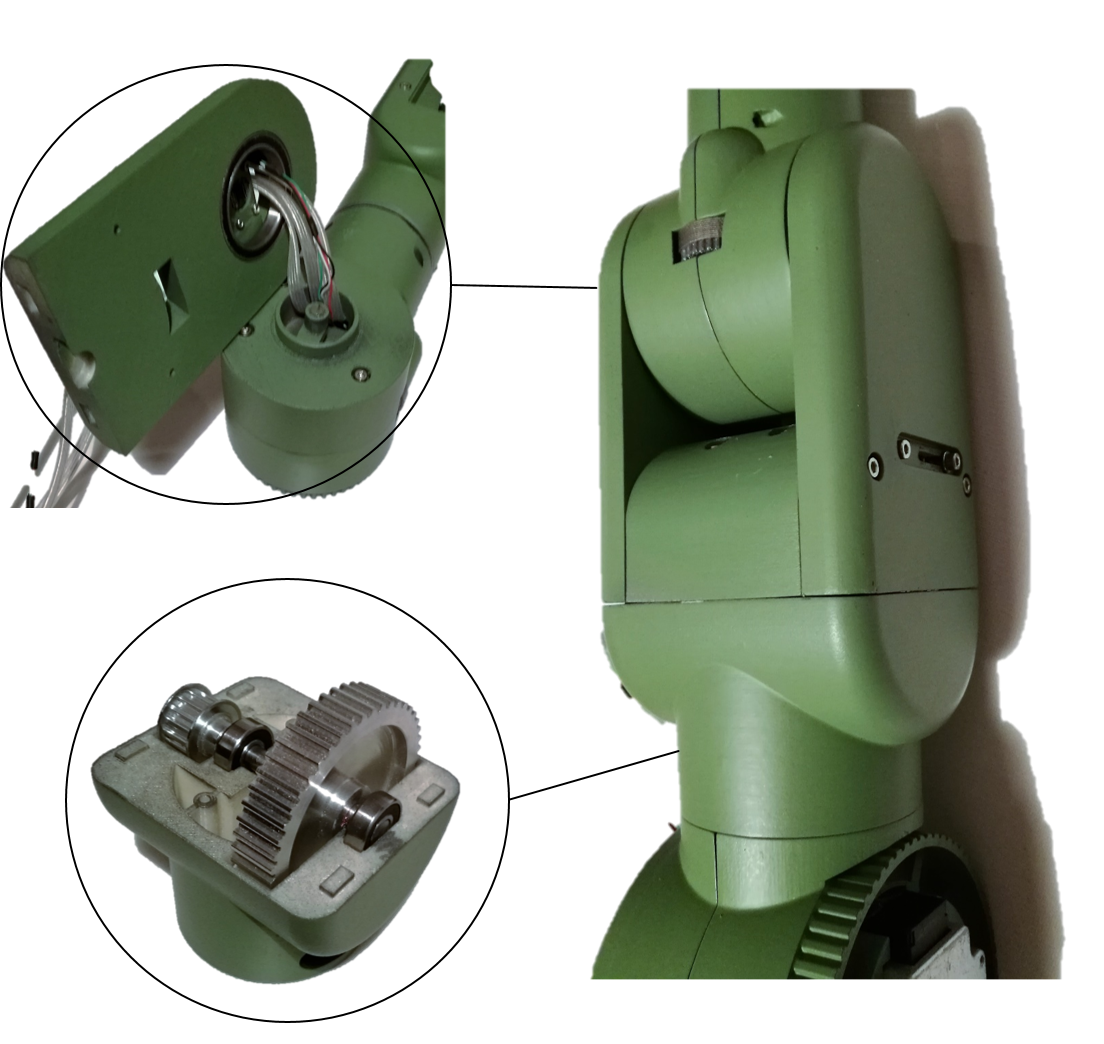
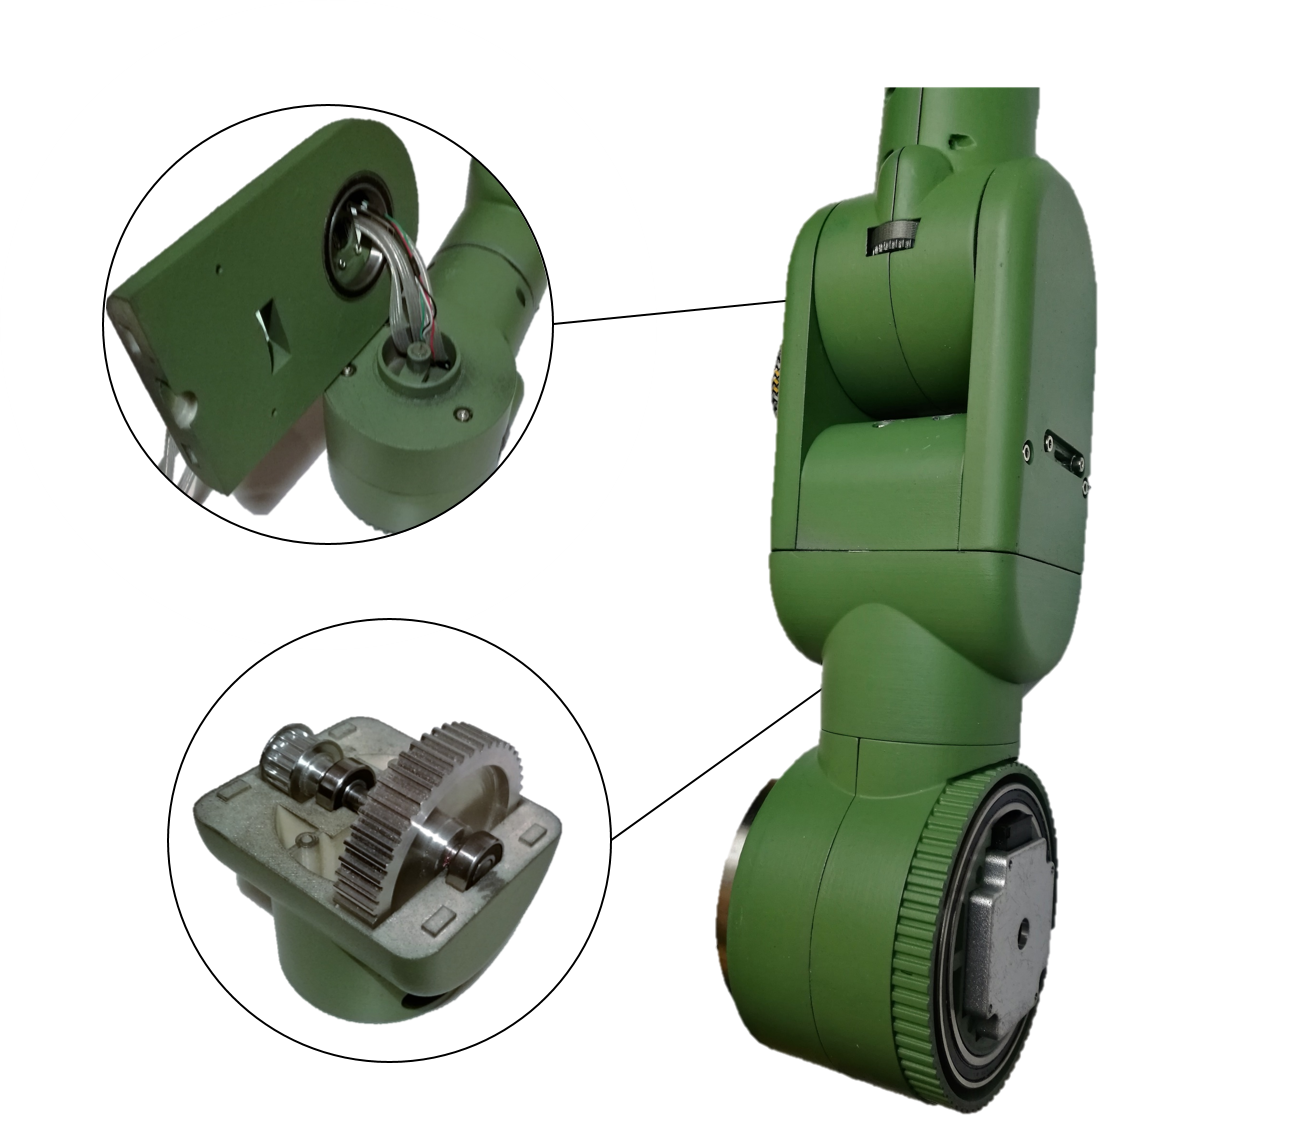
no message

diff --git a/docs/Construction.md b/docs/Construction.md
@@ -84,7 +84,7 @@ The cable is going through the centre of the axis. Below the fork of the upperar
 
 <img align="center" width="500px" src="../images/upperarm3.png" >
 
-On the backside of the stepper
+Right above the belt pinion of the stepper, the magnet for the encoder is placed:
 <img  width="500px" src="../images/upperarm4.png" >
 
 
